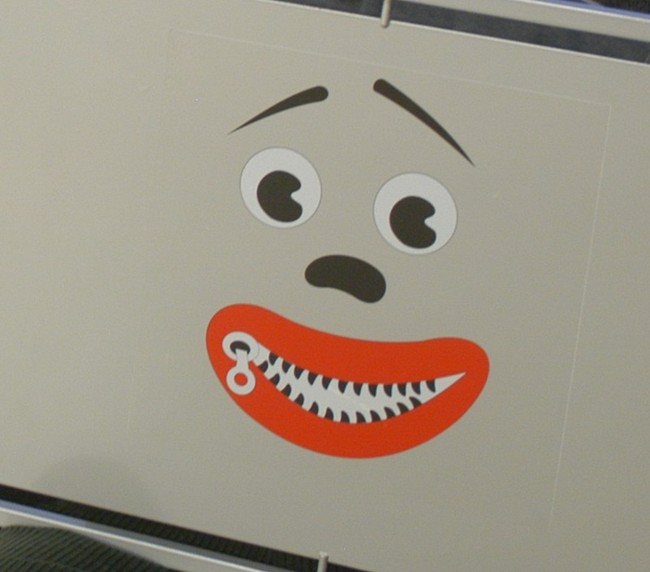
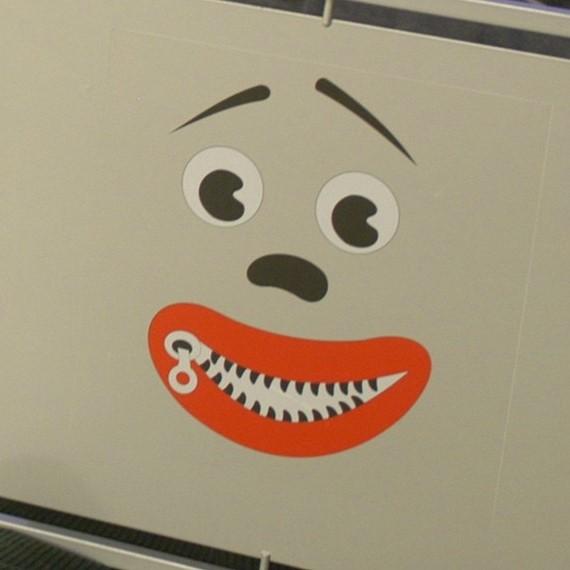
Border radius for "Nyama Vreme" image.

diff --git a/index.html b/index.html
@@ -7,7 +7,7 @@
     <script src="FrondPageStyle/styleBackground.js"></script>
 </head>
 <body>
-    <img src="images/minuta_e_mnogo.jpg" alt="">
+    <img src="images/minuta_e_mnogo.jpg" alt="" style="border-radius: 150px">
     <div id="wrapper">
         <header>
             <h1>SoftQuiz</h1>

diff --git a/easyLevel.html b/easyLevel.html
@@ -5,7 +5,7 @@
     <title>SoftQuiz - Easy Level</title>
 </head>
 <body>
-    <img src="images/minuta_e_mnogo.jpg" alt="">
+    <img src="images/minuta_e_mnogo.jpg" alt="" style="border-radius: 150px">
     <div id="wrapper">
         <header>
             <h1>SoftQuiz</h1>
